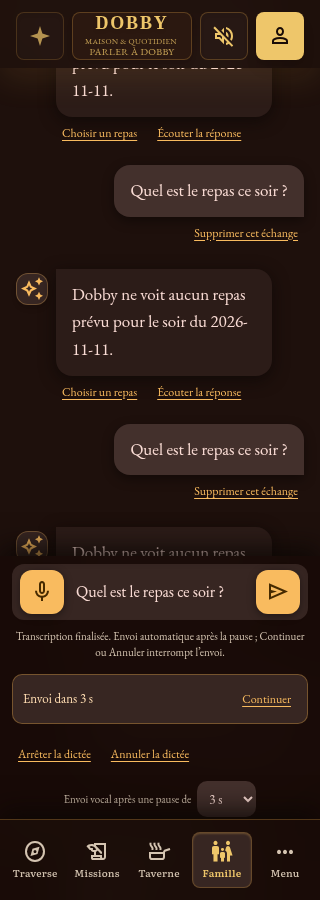
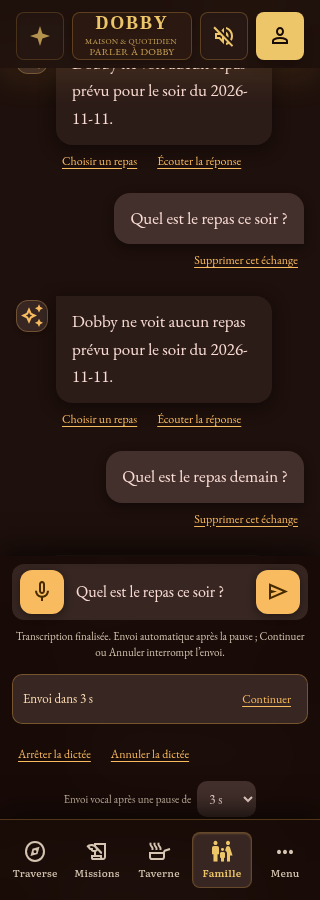
fix(chat): annuler la dictée pendant la lecture et refuser les cibles ambiguës

diff --git a/essai-stitch-v7/chat-engine.js b/essai-stitch-v7/chat-engine.js
@@ -113,7 +113,7 @@ window.DobbyChatEngine=(()=>{'use strict';
   if(/^(?:supprime|modifie|annule|change|cree|enregistre|partage|envoie|reserve|termine)\b/.test(q))return unknown();
   if(/\b(?:medical|sante|urgence|douleur|medicament)\b/.test(q))return {text:'Dobby peut ouvrir le carnet de santé. Il ne fournit pas de diagnostic ni de conseil médical.',links:[link('Carnets de santé','./famille.html#health')]};
   if(/\b(?:repas|mange|diner|ce soir)\b/.test(q)){remember('meal');if(/\b(?:lundi|mardi|mercredi|jeudi|vendredi|samedi|dimanche|hier)\b|\d{1,2}[/-]\d/.test(q))return {text:'Dobby peut consulter le repas d’aujourd’hui ou de demain. Pour une autre date, ouvrez le planning.',links:[link('Ouvrir le planning','./index.html#plan')]};return mealReply(q.includes('demain')?1:0,state);}
-  if(/\b(?:course|courses|panier)\b/.test(q)){const final=state.shopFinal;if(final&&!Array.isArray(final.items))throw Error('La liste validée est illisible. Ouvrez les courses pour la vérifier.');const snapshot=final?.e072||api()?.grocery?.read()?.context?shoppingSnapshot():null,names=snapshot?snapshot.items.map(r=>r.name):final?final.items.map(r=>r.name):[...C.read().draft.map(r=>r.name),...(state.extras||[])],label=snapshot?.shared?'La liste de courses du foyer':final?'La liste validée':'La préparation des courses';if(snapshot)rememberItems(snapshot,snapshot.items);else remember('shopping',(state.extras||[]).map(name=>legacyReference(name,state)));return {text:names.length?label+' contient '+names.length+' article(s) : '+names.slice(0,8).join(', ')+(names.length>8?'…':'.'):label+' ne contient aucun article.',links:[link('Voir les courses',final?'./index.html#shop-final':'./index.html#shop')]};}
+  if(/\b(?:course|courses|panier)\b/.test(q)){const final=state.shopFinal;if(final&&!Array.isArray(final.items))throw Error('La liste validée est illisible. Ouvrez les courses pour la vérifier.');const snapshot=final?.e072||api()?.grocery?.read()?.context?shoppingSnapshot():null,names=snapshot?snapshot.items.map(r=>r.name):final?final.items.map(r=>r.name):[...C.read().draft.map(r=>r.name),...(state.extras||[])],label=snapshot?.shared?'La liste de courses du foyer':final?'La liste validée':'La préparation des courses';if(snapshot)rememberItems(snapshot,snapshot.items);else if(!final&&names.length===1&&(state.extras||[]).length===1&&norm(names[0])===norm(state.extras[0]))remember('shopping',[legacyReference(state.extras[0],state)]);else remember('ambiguous');return {text:names.length?label+' contient '+names.length+' article(s) : '+names.slice(0,8).join(', ')+(names.length>8?'…':'.'):label+' ne contient aucun article.',links:[link('Voir les courses',final?'./index.html#shop-final':'./index.html#shop')]};}
   if(/\b(?:mission|missions|tache|taches|a faire|entretien)\b/.test(q)){const tasks=[...(state.manualMissions||[]).filter(t=>t.status!=='done'),...(state.autoTasks||[]).filter(t=>t.state==='open')];return {text:tasks.length?'Dobby a trouvé '+tasks.length+' mission(s) ouverte(s) : '+tasks.slice(0,5).map(t=>t.title).join(' ; ')+'.':'Dobby ne voit aucune mission ouverte.',links:[link('Voir les missions','./missions.html')]};}
   if(/\b(?:agenda|rendez-vous|evenement|evenements)\b/.test(q)){const events=(E.win().DobbyFamilyAgenda?.upcoming()||[]).filter(e=>['event','medical'].includes(e.kind));return {text:events.length?'Dans l’agenda partagé : '+events.slice(0,4).map(e=>[e.date,e.time,e.title].filter(Boolean).join(' · ')).join(' ; ')+'.':'Aucun événement à venir dans l’agenda partagé. Les fiches individuelles restent dans leur carnet.',links:[link('Ouvrir l’Agenda','./famille.html#agenda')]};}
   for(const [pattern,records,view,label]of [[/\b(?:document|documents|facture|contrat|contrats|garantie)\b/,state.familyDocs||[],'document','Documents'],[/\b(?:equipement|equipements|appareil|appareils|maison)\b/,state.houseItems||[],'equipment','Équipements']])if(pattern.test(q)){const needle=q.replace(/^.*?(?:documents?|facture|contrats?|garantie|equipements?|appareils?|maison)\b/,'').replace(/^(?:\s*(?:de|du|des|sur|pour|le|la))?\s*/,''),found=records.filter(r=>!needle||norm([r.title,r.name,r.provider,r.brand,r.model].join(' ')).includes(needle)).slice(0,5);return {text:found.length?'Dobby a trouvé : '+found.map(r=>r.title||r.name).join(' ; ')+'.':'Dobby n’a trouvé aucune fiche correspondante.',links:found.length?found.map(r=>link(r.title||r.name,'./famille.html#'+view+'?record='+encodeURIComponent(r.id))):[link(label,'./famille.html#'+(view==='document'?'documents':'house'))]};}

diff --git a/essai-stitch-v7/chat.js b/essai-stitch-v7/chat.js
@@ -54,10 +54,10 @@ window.DobbyChat=(()=>{'use strict';
  }
  function releaseRecognition(abort=false){clearAutoSend();const old=recognition;recognition=null;if(old){old.onresult=old.onerror=old.onend=old.onstart=old.onspeechstart=old.onsoundstart=null;if(abort)try{old.abort();}catch{}}clearTimeout(voiceSession?.timer);voiceButtons();}
  function cancelVoice(restore=true){const session=voiceSession;releaseRecognition(true);voiceSession=null;if(restore&&session&&input?.isConnected){input.value=draft=session.original;draftVoice=session.originalVoice;}voiceButtons();}
- function pauseVoice(){const session=voiceSession;if(!session)return;session.phase='stopping';clearTimeout(session.timer);try{recognition?.stop();}catch{}releaseRecognition(true);session.phase='paused';voiceButtons();say('Dictée arrêtée. Le brouillon est conservé. Reprenez la dictée ou touchez Envoyer.');}
+ function pauseVoice(){const session=voiceSession;if(!session)return;session.phase='paused';releaseRecognition(true);voiceButtons();say('Dictée arrêtée. Le brouillon est conservé. Reprenez la dictée ou touchez Envoyer.');}
  function stopSpeaking(){clearTimeout(speechTimer);utterance=null;try{window.speechSynthesis?.cancel();}catch{}const stop=composer?.querySelector('[data-fa-action=rg-chat-silence]');if(stop)stop.hidden=true;measure();}
  function speak(text){if(!active()||!sound()){say('Activez le bouton Son pour écouter une réponse.');return;}const synth=window.speechSynthesis,Utterance=window.SpeechSynthesisUtterance;if(!synth||typeof synth.speak!=='function'||typeof Utterance!=='function'){say('La lecture vocale est indisponible dans ce navigateur. La réponse reste écrite.');return;}
-  const voices=synth.getVoices().filter(v=>/^fr(?:-|_)?/i.test(v.lang));const voice=voices.find(v=>v.lang==='fr-FR')||voices[0];if(!voice){say('Aucune voix française disponible pour le moment. Réessayez Écouter la réponse après son chargement.');return;}stopSpeaking();const message=new Utterance(text);message.voice=voice;message.lang=voice.lang;message.pitch=1.14;message.rate=1.02;message.volume=.9;utterance=message;const expected=activeToken;
+  const voices=synth.getVoices().filter(v=>/^fr(?:-|_)?/i.test(v.lang));const voice=voices.find(v=>v.lang==='fr-FR')||voices[0];if(!voice){say('Aucune voix française disponible pour le moment. Réessayez Écouter la réponse après son chargement.');return;}if(recognition)pauseVoice();stopSpeaking();const message=new Utterance(text);message.voice=voice;message.lang=voice.lang;message.pitch=1.14;message.rate=1.02;message.volume=.9;utterance=message;const expected=activeToken;
   const stop=composer?.querySelector('[data-fa-action=rg-chat-silence]');if(stop)stop.hidden=false;message.onstart=()=>{if(utterance!==message)return;if(M.token()===expected&&sound())say('Dobby vous répond…');else stopSpeaking();};message.onend=()=>{if(utterance===message){stopSpeaking();say('Lecture terminée.');}};message.onerror=()=>{if(utterance===message){stopSpeaking();say('Lecture vocale indisponible ou bloquée. Vous pouvez réessayer avec Écouter la réponse.');}};
   try{synth.speak(message);speechTimer=setTimeout(()=>{if(utterance===message&&!synth.speaking)say('Si Safari bloque la lecture, touchez Écouter la réponse.');},1500);}catch{stopSpeaking();say('Lecture vocale bloquée par le navigateur. La réponse reste écrite.');}measure();
  }

diff --git a/docs/dobby-v7/evidence/review-e01-e05/voice/README.md b/docs/dobby-v7/evidence/review-e01-e05/voice/README.md
@@ -22,13 +22,21 @@ Toutes les commandes ont utilisé `DOBBY_TEST_ORIGIN=http://127.0.0.1:8891`, un 
 | --- | --- |
 | `node --check essai-stitch-v7/chat.js` | PASS |
 | `node --check essai-stitch-v7/tests/review-voice-20261111.cjs` | PASS |
-| `node essai-stitch-v7/tests/review-voice-20261111.cjs` | PASS, 17 scénarios causaux ; [résultats détaillés](results.json) |
-| `node essai-stitch-v7/tests/e02-voice-history.cjs` | PASS ; [résultats](legacy-history/voice-history-results.json) |
-| `node essai-stitch-v7/tests/e02-consolidation.cjs` | PASS à 390, 320 et 1440 px ; [résultats](legacy-consolidation/results.json) |
+| `node essai-stitch-v7/tests/review-voice-20261111.cjs` | PASS, 18 scénarios causaux, y compris la correction finale de réécoute ; [résultats détaillés](results.json) |
+| `node essai-stitch-v7/tests/e02-voice-history.cjs` | PASS au premier contrôle ciblé, avant la correction finale de réécoute ; [résultats](legacy-history/voice-history-results.json) |
+| `node essai-stitch-v7/tests/e02-consolidation.cjs` | PASS à 390, 320 et 1440 px au premier contrôle ciblé, avant la correction finale de réécoute ; [résultats](legacy-consolidation/results.json) |
 
 Le test causal utilise une horloge Playwright arrêtée entre chaque avance explicite : aucun envoi à 2 999 ms, un envoi à 3 001 ms ; idem de part et d’autre de 1,5 et 5 secondes. Il vérifie plusieurs segments, pauses et reprises, Continuer, Annuler, Envoyer immédiat, correction manuelle, préfixe interrompu, anciens callbacks, erreurs microphone, arrêt naturel, masquage, cache de page, navigation, changement de compte, mode manuel sans API, Son OFF/ON, lecture/interruption/réécoute, confirmation sensible et persistance IndexedDB après rechargement. Aucun événement d’erreur JavaScript n’a été observé. La campagne générale unique reste à l’orchestrateur du lot.
 
 La non-régression ciblée a d’abord révélé la disparition de la commande Annuler après correction manuelle ; ce comportement a été corrigé avant les passages PASS ci-dessus. Une lecture indépendante du diff vocal par l’agent conversationnel n’a relevé aucun défaut supplémentaire de garde ou de minuterie.
+
+## Contrôle final — réécoute pendant une dictée
+
+Le contrôle final de l’orchestrateur a identifié un cas supplémentaire : lancer « Écouter la réponse » conservait le microphone et le décompte actifs pendant la synthèse. Le nouveau test a reproduit le défaut avant correction dans le véritable parcours UI : après réécoute puis avance de **3 001 ms**, le fil contenait **11 échanges au lieu des 10 attendus**. L’échec et sa capture sont conservés dans [replay-red.log](replay-red.log), [replay-red-results.json](replay-red-results.json) et [replay-red-failure.png](replay-red-failure.png).
+
+La correction minimale de `chat.js` met la dictée en pause avant `speechSynthesis.speak`. `pauseVoice` invalide maintenant les handlers et le délai avant d’interrompre le moteur de reconnaissance, en conservant la transcription. Le test vérifie l’état réel du DOM à l’entrée de l’API de synthèse : microphone inactif, décompte masqué, brouillon inchangé. Il rappelle ensuite les anciens callbacks, dépasse leurs anciens délais, vérifie l’absence d’envoi et de redémarrage automatique, puis reprend explicitement la dictée et envoie après une nouvelle pause complète.
+
+La commande ciblée `DOBBY_TEST_ORIGIN=http://127.0.0.1:8891 node essai-stitch-v7/tests/review-voice-20261111.cjs` termine avec **18 scénarios PASS**, code de sortie 0 : [replay-green.log](replay-green.log). Les vérifications de syntaxe des deux fichiers et `git diff --check` passent également. Aucune campagne générale supplémentaire n’a été lancée dans ce sous-lot ; la vérification générale unique du correctif final reste à l’orchestrateur.
 
 ## Captures et limites
 
